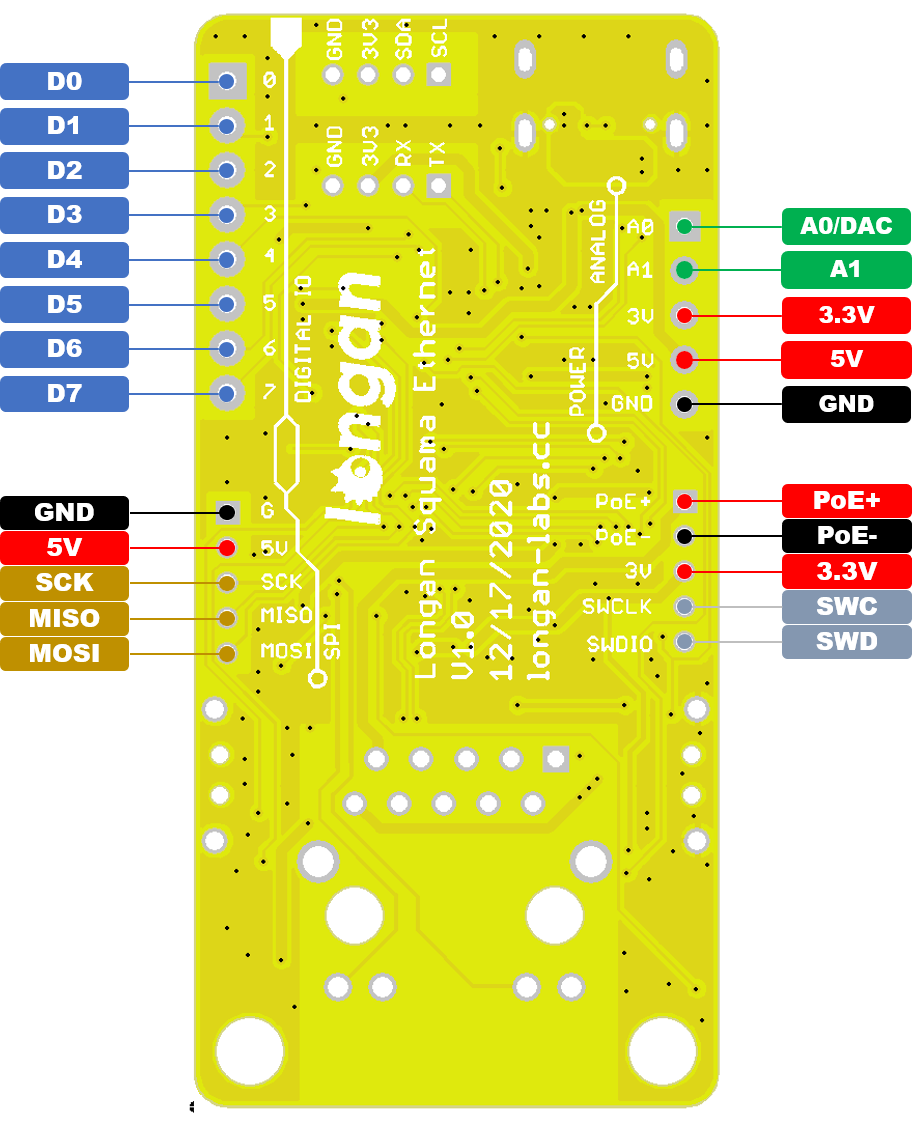
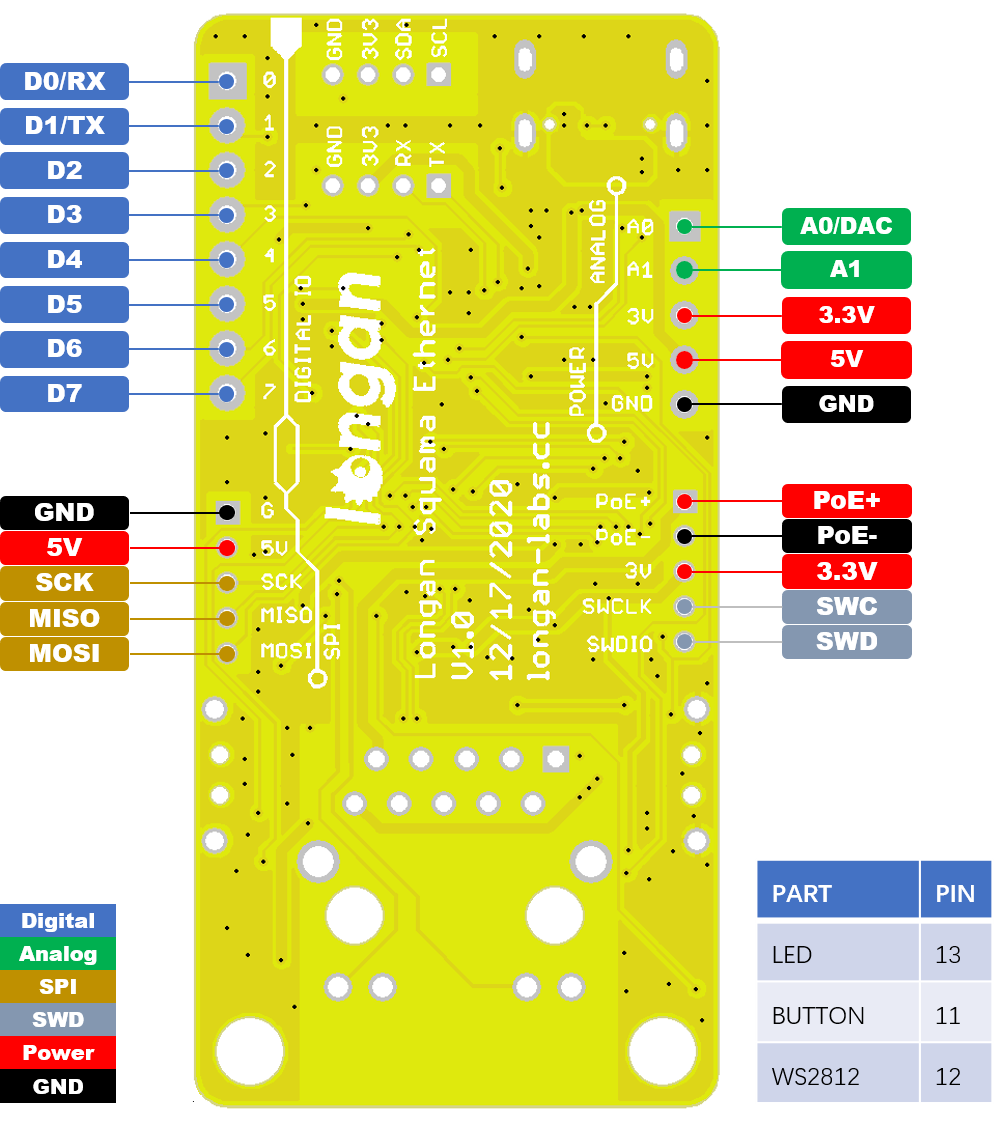
update image

diff --git a/docs/1050001.md b/docs/1050001.md
@@ -49,7 +49,7 @@ name: Squame Ethernet
 
 ![](https://raw.githubusercontent.com/Longan-Labs/docs_mkdocs/master/docs/images/1050001/partlist.jpg)
 
-### PIN OUT
+### HARDWARE OVERVIEW
 
 ![](https://raw.githubusercontent.com/Longan-Labs/docs_mkdocs/master/docs/images/1050001/hw.jpg)
 
@@ -71,7 +71,7 @@ name: Squame Ethernet
 
 **7. I2C**
 
-**8. UART**
+**8. UART (Use Serial2 in the code)**
 
 **9. TypeC connector for programming**
 
@@ -80,6 +80,13 @@ name: Squame Ethernet
 **B. Reset Button**
 
 **C. ATSAMD21G18 chip**
+
+### PIN OUTPUT
+
+![](https://raw.githubusercontent.com/Longan-Labs/docs_mkdocs/master/docs/images/1050001/pinout.png)
+
+!!!Note
+    The RX/TX use Serial1 in the code
 
 ## ***ARDUINO IDE SETUP***
 --------------------------
